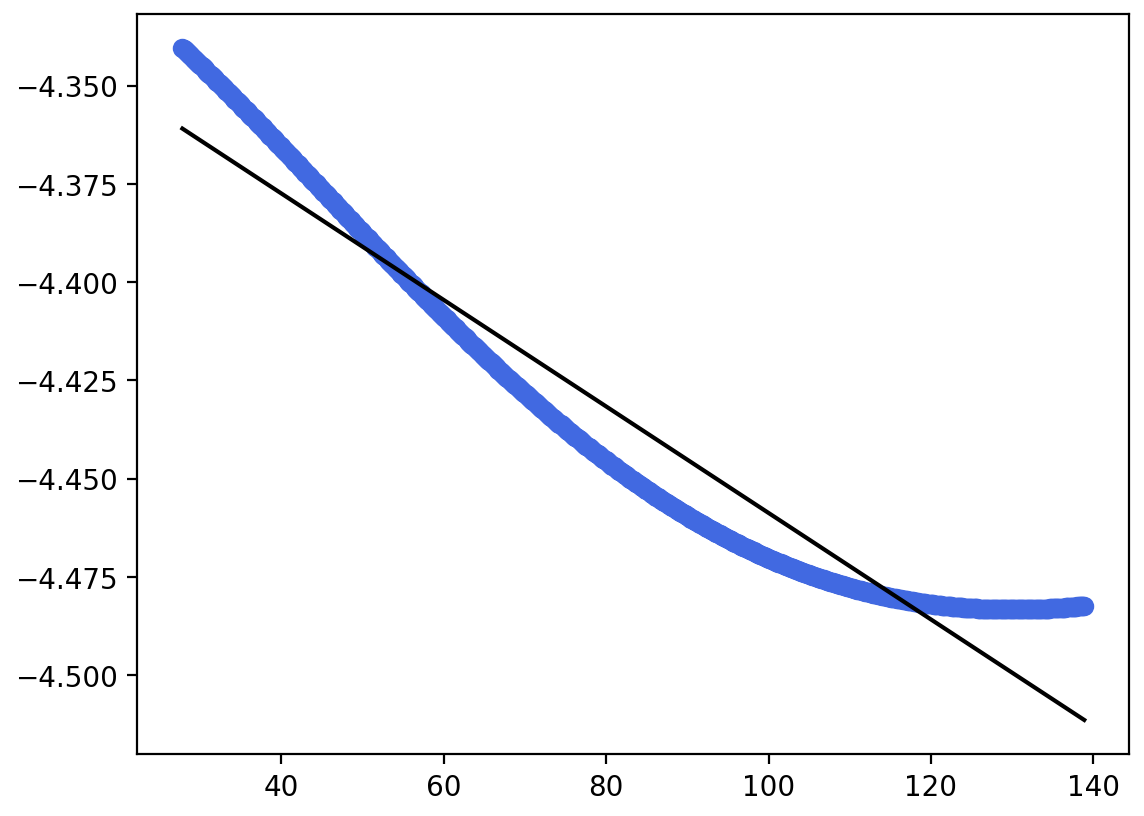
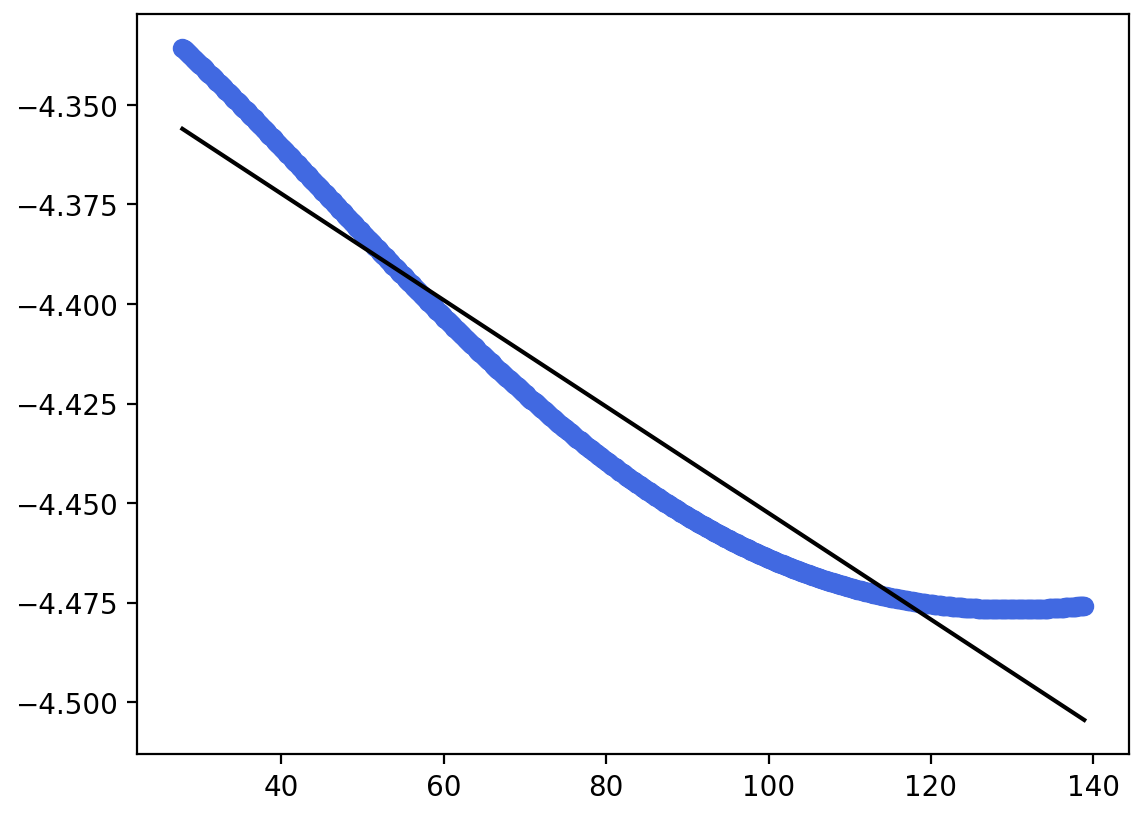
march update
*new equations
*better validation
*attempting to iterate on solutions

diff --git a/kinetic_iso.py b/kinetic_iso.py
@@ -15,18 +15,9 @@ Dr. Maria J. Molina
 ###############################################################################
 
 #TODO list
-#add in scilearning paramater optimization for k values
-#test model with real data
 #visual output of most probable species as histogram
-# develop a better determination of stochastic processes for model
+# evelop a better determination of stochastic processes for model
 #create interpolated data set from real data for machinelearning parameters
-#calcute polynomial equation of a line similar to data use poly to interpolate?
-#to test regression of real data versus calculated data, run a tight k value run
-#after take mean of each line, find data points with the clossest time to our measured time
-#plot these data points versus measured data, get r^2
-
-
-
 
 ###############################################################################
 ###############################################################################
@@ -255,23 +246,24 @@ def Mo_iso_solver(species, divtime, mole_ratio):
         #A_range = np.linspace(A[0],A[1],10)
         #A_iso_rand = np.array([np.random.choice(10) for i in range(number_of_samples)])
         #A_iso_test = A_range[A_iso_rand]
-        calc = (0.444 * np.log(divtime) -2.5127)
-        #calc = (9e-14 * divtime**2 + 1e-7 * divtime - 0.76) / mole_ratio
+        #calc = (0.444 * np.log(divtime) -2.5127)
+        #calc = (177827 * mole_ratio**3 - 17396 * mole_ratio**2 + 481.05 * mole_ratio - 1.0172)
+        calc = -1.255 * np.log(mole_ratio) - 2.1249
         return calc
     if species == 'B':
         #calc = (-6e9 * mole_ratio**2 + 148945 * mole_ratio + 1.9459)
         #calc = (-14.773 * mole_ratio**2 + 7.6379 * mole_ratio + 1.9459)
-        calc = (0.5868 * np.log(divtime) -4.3475)
+        calc = (-1.603 * np.log(mole_ratio) + 0.4349)
         #calc = (-1e-6 * divtime + 0.9711) / mole_ratio
         #calc = (-4e-12 * divtime**2 + 1e-6 * divtime + 0.6516) / mole_ratio
         #calc = (8e-17 * divtime**3 -6e-11 * divtime**2 + 1e-5 * divtime + 0.4497) / mole_ratio
         return calc
     if species == 'C':
         #calc = (divtime**2 - 1E-05 * divtime + 0.01) / mole_ratio
-        calc = (-2e-12 * divtime**2 + 4e-06 * divtime - 0.0475) / mole_ratio
-        #calc = (3e-6 * divtime - 0.6933) / mole_ratio
+        #calc = (-2e-12 * divtime**2 + 4e-06 * divtime - 0.0475) / mole_ratio
+        calc = (3e-6 * divtime - 0.6933) / mole_ratio
         #calc = 149527 * mole_ratio - 2.944
-        #calc = 0.8739 * np.log(divtime) - 10.657
+        #calc = 2.9908 * np.log(mole_ratio) + 3.5551
         return calc
     if species == 'D':
         calc = (2e-12 * divtime**2 - 2e-6 * divtime - 0.042) / mole_ratio
@@ -287,40 +279,40 @@ def Mo_iso_solver(species, divtime, mole_ratio):
 
 from scipy import optimize
 
-def isotope_mix(x):
-    #section = 0
-    #divtime = 300
-    x_ratio = (A_solutions[section,divtime]/User_Mo, B_solutions[section,divtime]/User_Mo,
-                C_solutions[section,divtime]/User_Mo, D_solutions[section,divtime]/User_Mo,
-                E_solutions[section, divtime]/User_Mo)
-
+###############################################################################
+###############################################################################
+###############################################################################
+'''
+def isotope_mix(c):
+    section = 0
+    divtime = 300
+    x_ratio = (A_solutions[section, divtime] / User_Mo, B_solutions[section, divtime] / User_Mo,
+                C_solutions[section, divtime] / User_Mo, D_solutions[section, divtime] / User_Mo,
+                E_solutions[section, divtime] / User_Mo)
     print(x_ratio)
+    return ((c[0] * x_ratio[0]) + (c[1] * x_ratio[1]) +
+            (c[2] * x_ratio[1]) + (c[3] * x_ratio[3]) +
+            (c[4] * x_ratio[4]) - 0.17)
 
-    return ((x[0] * x_ratio[0]) + (x[1] * x_ratio[1]) +
-            (x[2] * x_ratio[1]) + (x[3] * x_ratio[3]) +
-            (x[4] * x_ratio[4]) - 0.17)
+def iso_optimize_test():
+    x0 = np.array([0]*5)
+    x0_bound = (0,4)
+    x1_bound = (0,5)
+    x2_bound = (-4,5)
+    x3_bound = (-5,0)
+    x4_bound = (-4,0)
 
-x0= np.array([0]*5)
-x0_bound = (0,0.4)
-x1_bound = (0,0.5)
-x2_bound = (-0.4,0.5)
-x3_bound = (-0.5,0)
-x4_bound = (-0.4,0)
+    iso_plot = []
 
-iso_plot = []
-
-for i in range(0,5):
-    section = i
-    result = optimize.minimize(isotope_mix, x0=x0,method='L-BFGS-B',
+    for i in range(0,5):
+        section = i
+        divtime = np.random.randint(0,500)
+        result = optimize.minimize(isotope_mix, x0=x0,method='L-BFGS-B',
                            options={'maxiter':100})#, bounds=(x0_bound,x1_bound,x2_bound,x3_bound,x4_bound))
 
-    iso_plot.append(result.x)
-
-
-
-
-
-
+        iso_plot.append(result.x)
+    return result, iso_plot
+'''
 ###############################################################################
 ###############################################################################
 ###############################################################################
@@ -810,6 +802,44 @@ plt.close()
 ###############################################################################
 ###############################################################################
 
+'''
+outfile = open('test.csv', 'w')
+out = csv.writer(outfile, delimiter=',')
+a = [14, 72, 173, 345, 518, 863]
+#new = []
+outfile.write('time, MoO4%, MoO3S%, MoO2S2%, MoOS3%, MoS4% \n')
+for i in a:
+    #new = [time_values[i], A_mole_ratio[0][i], B_mole_ratio[0][i], C_mole_ratio[0][i], D_mole_ratio[0][i], E_mole_ratio[0][i]]
+    #out.writerows(zip(time_values[i], A_mole_ratio[0][i], B_mole_ratio[0][i], C_mole_ratio[0][i], D_mole_ratio[0][i], E_mole_ratio[0][i]))
+    #new.append(zip(time_values[i], A_mole_ratio[0][i], B_mole_ratio[0][i], C_mole_ratio[0][i], D_mole_ratio[0][i], E_mole_ratio[0][i]))
+    #new  = zip(time_values[i], A_mole_ratio[0][i], B_mole_ratio[0][i], C_mole_ratio[0][i], D_mole_ratio[0][i], E_mole_ratio[0][i])
+    #for z in range(len(new)):
+    #    outfile.write(f'{new[z]}\n')
+    outfile.write(f'{time_values[i], A_mole_ratio[0][i], B_mole_ratio[0][i], C_mole_ratio[0][i], D_mole_ratio[0][i], E_mole_ratio[0][i]}\n')
+outfile.close()
+
+def find_nearest(array, value):
+    array = np.asarray(array)
+    idx = (np.abs(array - value)).argmin()
+    return array[idx], idx
+
+def line_mean(array):
+    #array = np.asarray(array)
+    transp = array.T
+    calc = []
+    for i in range(len(transp)):
+        calc.append(np.mean(transp[i]))
+    return calc
+
+plt.plot(time_values, A_solutions[0], marker='', color='grey', fillstyle='full', markeredgecolor='black',markeredgewidth=0.5)
+plt.plot(time_values, test, marker='', color='red', fillstyle='full', markeredgecolor='blue',markeredgewidth=0.5)
+
+'''
+
+###############################################################################
+###############################################################################
+###############################################################################
+
 #make figure layout
 fig = plt.figure(figsize=(8.,4.))
 
@@ -851,41 +881,3 @@ plt.ylim(-5,5)
 plt.savefig('image_delta.png', bbox_inches='tight', pad_inches=0.075, dpi=200, alpha=0.004)
 plt.show()
 plt.close()
-
-
-###############################################################################
-###############################################################################
-###############################################################################
-'''
-outfile = open('test.csv', 'w')
-out = csv.writer(outfile, delimiter=',')
-a = [14, 72, 173, 345, 518, 863]
-#new = []
-outfile.write('time, MoO4%, MoO3S%, MoO2S2%, MoOS3%, MoS4% \n')
-for i in a:
-    #new = [time_values[i], A_mole_ratio[0][i], B_mole_ratio[0][i], C_mole_ratio[0][i], D_mole_ratio[0][i], E_mole_ratio[0][i]]
-    #out.writerows(zip(time_values[i], A_mole_ratio[0][i], B_mole_ratio[0][i], C_mole_ratio[0][i], D_mole_ratio[0][i], E_mole_ratio[0][i]))
-    #new.append(zip(time_values[i], A_mole_ratio[0][i], B_mole_ratio[0][i], C_mole_ratio[0][i], D_mole_ratio[0][i], E_mole_ratio[0][i]))
-    #new  = zip(time_values[i], A_mole_ratio[0][i], B_mole_ratio[0][i], C_mole_ratio[0][i], D_mole_ratio[0][i], E_mole_ratio[0][i])
-    #for z in range(len(new)):
-    #    outfile.write(f'{new[z]}\n')
-    outfile.write(f'{time_values[i], A_mole_ratio[0][i], B_mole_ratio[0][i], C_mole_ratio[0][i], D_mole_ratio[0][i], E_mole_ratio[0][i]}\n')
-outfile.close()
-
-def find_nearest(array, value):
-    array = np.asarray(array)
-    idx = (np.abs(array - value)).argmin()
-    return array[idx], idx
-
-def line_mean(array):
-    #array = np.asarray(array)
-    transp = array.T
-    calc = []
-    for i in range(len(transp)):
-        calc.append(np.mean(transp[i]))
-    return calc
-
-plt.plot(time_values, A_solutions[0], marker='', color='grey', fillstyle='full', markeredgecolor='black',markeredgewidth=0.5)
-plt.plot(time_values, test, marker='', color='red', fillstyle='full', markeredgecolor='blue',markeredgewidth=0.5)
-
-'''

diff --git a/ccccombo_bbbreaker.py b/ccccombo_bbbreaker.py
@@ -1,0 +1,153 @@
+import numpy as np
+
+#set the boundry conditions of the equations & define some global constants
+Bounds = np.array([[0,5], [0,5], [-5,5], [-5,0], [-5,0]])
+
+real_value = 0.17
+choices = 10
+number_of_samples = 10
+
+###############################################################################
+###############################################################################
+###############################################################################
+
+#define a few functions to calculate and test inputs
+def combo_finder(frac, iso):
+    calc = np.zeros((5, choices))
+    for z, i in enumerate(frac):
+        calc[z] = frac[z] * iso[z]
+    return calc
+
+###############################################################################
+###############################################################################
+###############################################################################
+
+#function to test the output from combo_finder
+def solution_tester(input, solution):
+    tst_output = np.zeros((len(input)))
+    for idx, i in enumerate(input):
+        test = sum(input[idx])
+        if test == solution:
+            print(idx, 'solution == input value')
+            tst_output[idx] = test
+        if test < solution:
+            print(idx, 'too low')
+            tst_output[idx] = test
+        if test > solution:
+            print(idx, 'too high')
+            tst_output[idx] = test
+    return  tst_output
+
+###############################################################################
+###############################################################################
+###############################################################################
+
+#function to use previous input if near correct value and try again
+#pseudo machine learning
+def solution_improvement():
+    pass
+
+###############################################################################
+###############################################################################
+###############################################################################
+
+def choose_answers(boundry_array, iterate):
+
+    #choose a set of values from the boundries to be tested
+    if iterate == False:
+        A_test = np.linspace(boundry_array[0,0], boundry_array[0,1], choices)
+        B_test = np.linspace(boundry_array[1,0], boundry_array[1,1], choices)
+        C_test = np.linspace(boundry_array[2,0], boundry_array[2,1], choices)
+        D_test = np.linspace(boundry_array[3,0], boundry_array[3,1], choices)
+        E_test = np.linspace(boundry_array[4,0], boundry_array[4,1], choices)
+    if iterate == True:
+        boundry_low = boundry_array * 0.8
+        boundry_high = boundry_array * 1.2
+        A_test = np.linspace(boundry_low[0], boundry_high[0], choices)
+        B_test = np.linspace(boundry_low[1], boundry_high[1], choices)
+        C_test = np.linspace(boundry_low[2], boundry_high[2], choices)
+        D_test = np.linspace(boundry_low[3], boundry_high[3], choices)
+        E_test = np.linspace(boundry_low[4], boundry_high[4], choices)
+
+    #randomly (if you want) choose some values from this setup
+    #pick some random numbers from linspace and assign them to an array
+    rand_A = np.array([np.random.choice(choices) for i in range(number_of_samples)])
+    rand_B = np.array([np.random.choice(choices) for i in range(number_of_samples)])
+    rand_C = np.array([np.random.choice(choices) for i in range(number_of_samples)])
+    rand_D = np.array([np.random.choice(choices) for i in range(number_of_samples)])
+    rand_E = np.array([np.random.choice(choices) for i in range(number_of_samples)])
+
+    #assign randomized values to arrays
+    A_randomized = A_test[rand_A]
+    B_randomized = B_test[rand_B]
+    C_randomized = C_test[rand_C]
+    D_randomized = D_test[rand_D]
+    E_randomized = E_test[rand_E]
+
+    return np.array([A_randomized, B_randomized, C_randomized, D_randomized, E_randomized])
+
+
+#frac for my application has to ~ 1, not really needed in final code when I put in real data but helpful for testing
+frac_list = []
+example_frac = np.linspace(0, 1, 100)
+rand_frac = np.random.choice(100)
+alpha_value = example_frac[rand_frac]
+frac_list.append(alpha_value)
+left_over = 1 - alpha_value
+
+for i in range(4):
+    if left_over != 0:
+        example_frac = np.linspace(0,left_over, 100)
+        rand_frac = np.random.choice(100)
+        alpha_value = example_frac[rand_frac]
+        frac_list.append(alpha_value)
+        left_over = 1 - sum(frac_list)
+
+        #for the case that it randomly picks ~1, fill with zeros
+    else:
+        remainder = 5 - len(frac_list)
+        for i in range(remainder):
+            frac_list.append(0.0)
+    #Finally randomize the order of the new list for frac
+np.random.shuffle(frac_list)
+
+
+
+###############################################################################
+###############################################################################
+###############################################################################
+
+np.set_printoptions(formatter={'float': lambda x: "{0:0.1f}".format(x)})
+
+tester_array = choose_answers(Bounds, False)
+
+final_values = combo_finder(frac_list, tester_array)
+final_values = final_values.T
+
+results = solution_tester(final_values, real_value)
+new_boundry = np.zeros((5))
+
+print('\n first trial \n')
+#find results + or - 20% of the target value
+for idx, i in enumerate(results):
+    if (real_value * 1.5) > results[idx] and (real_value * 0.5) < results[idx]:
+        print(idx, "{:.3f}".format(results[idx]), 'values:', tester_array.T[idx])
+        new_boundry = tester_array.T[idx]
+    else:
+        print(idx, 'not within + or - 50%')
+
+print('\n nth trial \n')
+
+tester_array = choose_answers(new_boundry, True)
+
+final_values = combo_finder(frac_list, tester_array)
+final_values = final_values.T
+
+results = solution_tester(final_values, real_value)
+
+for idx, i in enumerate(results):
+    if (real_value * 1.2) > results[idx] and (real_value * 0.8) < results[idx]:
+        print(idx, "{:.3f}".format(results[idx]), 'values:', tester_array.T[idx])
+        new_boundry = tester_array.T[idx]
+    else:
+        print(idx, 'not within + or - 20%')
